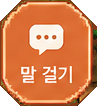
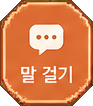
0.9.4 포근한 테마 말 걸기: 오른쪽에 튀어나온 갈색 상자 조각 제거
원본에서 버튼 오른쪽이 상자에 가려 있어 팔각형 맞춤이 상자까지 버튼으로 잡았다.
오른쪽 변과 모서리를 왼쪽에 맞춰 대칭으로 자른다.

Claude-Session: https://claude.ai/code/session_01VEprA6JeTcQVX6tKD4oAcT

diff --git a/src/core/settings.js b/src/core/settings.js
@@ -2,7 +2,7 @@
 
 import { ctx } from './st.js';
 
-export const VERSION = '0.9.3';
+export const VERSION = '0.9.4';
 export const MODULE = 'sand_feather';
 export const PROMPT_KEY = 'sand_feather_world';
 export const UI_THEMES = [

diff --git a/tools/art/cut-action-buttons.py b/tools/art/cut-action-buttons.py
@@ -77,7 +77,9 @@ def octagon(a, rgb, key):
         if not moved:
             break
     if key == 'cozy/action-talk':
-        p[6] = p[7]  # that corner hides behind a crate in the concept: mirror the left one
+        # its right side stands against a dark crate the fit cannot tell from the frame: the frame is
+        # symmetric, so the right edge mirrors the left one about the cream rim, corners like the left ones
+        p[2], p[5], p[6] = 92, p[4], p[7]
     m = mask(p)
     m_out = grow(m, 3)
     edge = m_out & ~shrink(m, 5)

diff --git a/docs/SESSION-HANDOFF.md b/docs/SESSION-HANDOFF.md
@@ -2,7 +2,13 @@
 
 최종 갱신: 2026-10-10. 이 문서는 과거 `docs/HANDOFF.md` 및 `/workspace/SandAndFeather-DESIGN-HANDOFF.md`보다 최신이다. 아래 진행 상태가 실제 완료 여부의 기준이다.
 
-## 최신 상태 — 0.9.3 깨진 프레임 전수 수리
+## 최신 상태 — 0.9.4 포근한 테마 말 걸기 테두리
+
+- 포근한 테마 말 걸기 버튼 오른쪽과 오른쪽 아래에 갈색 상자 조각이 튀어나와 있었다. 원본에서 그 자리가 상자 그림에 가려 있었기 때문이다. 이제 팔각형 오른쪽 변과 모서리를 왼쪽에 맞춰 대칭으로 자른다. `cut-action-buttons.py`.
+- 푸른 연꽃 뒤로 튀어나오던 분홍빛 바탕은 0.9.3에서 이미 지웠다. 0.9.4 화면에서 다섯 테마 모두 다시 확인했다.
+- **하단 메뉴 아이콘은 새로 그리지 않는다.** 사용자가 디자인을 아스트라에게 맡기기로 했다. 아이콘은 지금 그대로 둔다.
+
+## 이전 완료 — 0.9.3 깨진 프레임 전수 수리
 
 요청: 말 걸기와 가방처럼 프레임이 깨지고 늘어난(초록 테두리) 부분을 모든 테마에서 찾아 수정. main에 직접 반영.
 
